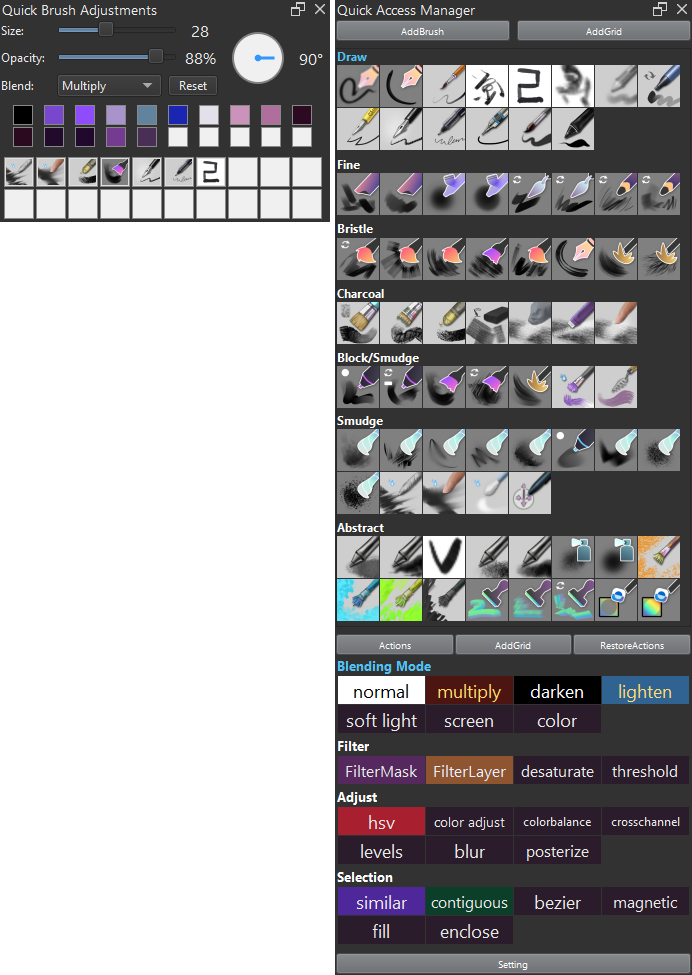
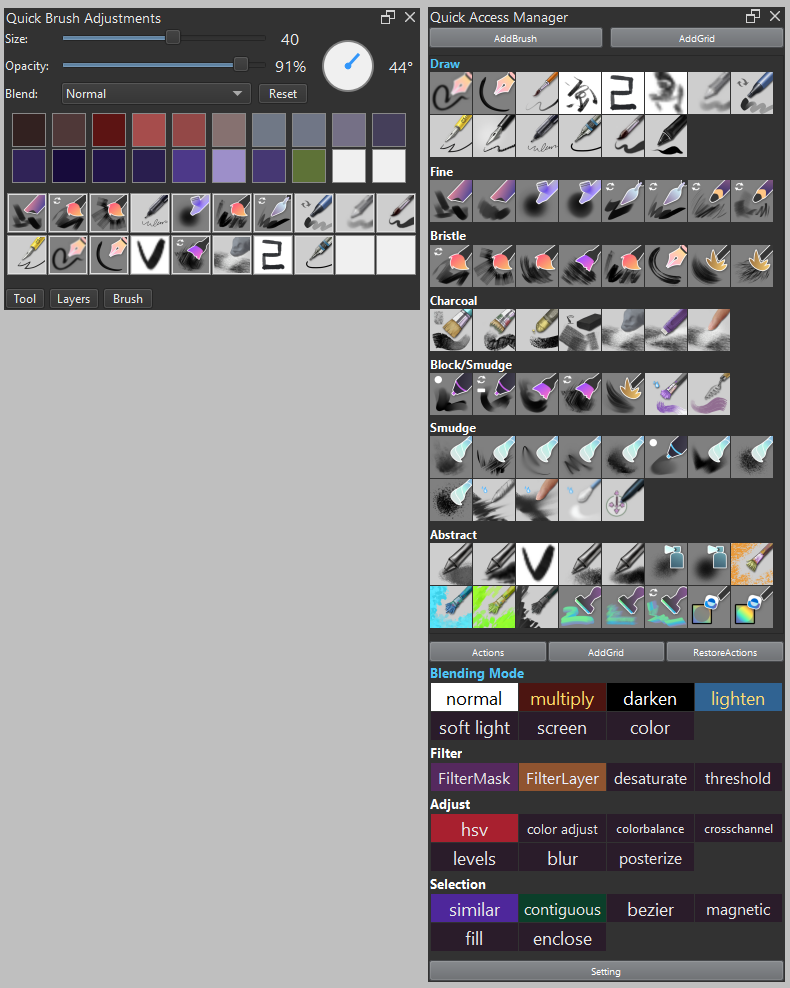
add docker toggle buttons function

diff --git a/quick_access_manager/quick_brush_adjust.py b/quick_access_manager/quick_brush_adjust.py
@@ -3,6 +3,8 @@ from PyQt5.QtCore import Qt, QTimer, pyqtSignal
 from PyQt5.QtGui import QPainter, QPen, QBrush, QColor, QPolygon
 from krita import Krita
 import math
+import json
+import os
 
 # Import widgets from the quick_brush_adjust_widgets package
 from .quick_brush_adjust_widgets import (
@@ -28,12 +30,129 @@ class BrushAdjustmentWidget(QWidget):
         self.current_brush_rotation = None
         self.current_blend_mode = None  # Add blend mode tracking
         self.updating_from_brush = False  # Flag to prevent recursive updates
+        
+        # Load docker buttons configuration
+        self.docker_buttons_config = self.load_docker_buttons_config()
+        
         self.init_ui()
         
         # Timer to periodically check for brush changes
         self.brush_check_timer = QTimer()
         self.brush_check_timer.timeout.connect(self.check_brush_change)
         self.brush_check_timer.start(200)  # Check every 200ms for more responsiveness
+        
+    def load_docker_buttons_config(self):
+        """Load docker buttons configuration from JSON file"""
+        try:
+            # Get the directory where this file is located
+            current_dir = os.path.dirname(os.path.abspath(__file__))
+            config_dir = os.path.join(current_dir, 'config')
+            config_file = os.path.join(config_dir, 'docker_buttons.json')
+            
+            if os.path.exists(config_file):
+                with open(config_file, 'r') as f:
+                    config = json.load(f)
+                    print(f"Loaded docker buttons config: {len(config.get('docker_buttons', []))} buttons")
+                    return config
+            else:
+                print(f"Docker buttons config file not found: {config_file}")
+                print("Creating default config file...")
+                
+                # Create the config directory if it doesn't exist
+                os.makedirs(config_dir, exist_ok=True)
+                
+                # Get default configuration
+                default_config = self.get_default_docker_config()
+                
+                # Write default config to file
+                with open(config_file, 'w') as f:
+                    json.dump(default_config, f, indent=4)
+                
+                print(f"Created default docker buttons config file: {config_file}")
+                return default_config
+                
+        except Exception as e:
+            print(f"Error loading docker buttons config: {e}")
+            return self.get_default_docker_config()
+
+    def get_default_docker_config(self):
+        """Return default docker configuration if JSON file is not available"""
+        return {
+            "docker_buttons": [
+                {
+                    "button_name": "Tool",
+                    "button_width": 40,
+                    "docker_keywords": ["tool", "option"],
+                    "description": "Tool Options Docker"
+                },
+                {
+                    "button_name": "Layers",
+                    "button_width": 50,
+                    "docker_keywords": ["layer"],
+                    "description": "Layers Docker"
+                },
+                {
+                    "button_name": "Brush",
+                    "button_width": 50,
+                    "docker_keywords": ["brush", "preset"],
+                    "description": "Brush Presets Docker"
+                }
+            ]
+        }
+        
+    def create_docker_buttons(self, layout):
+        """Dynamically create docker toggle buttons based on configuration"""
+        docker_buttons = self.docker_buttons_config.get("docker_buttons", [])
+        if not docker_buttons:
+            return
+            
+        print(f"Creating {len(docker_buttons)} docker buttons")
+        
+        for button_config in docker_buttons:
+            button = QPushButton(button_config["button_name"])
+            button.setStyleSheet(f"font-size: {BRUSH_ADJUSTMENT_FONT_SIZE}; padding: 2px 8px;")
+            button.setFixedWidth(button_config["button_width"])
+            button.setToolTip(button_config["description"])
+            
+            # Create a closure to capture the button configuration
+            def make_docker_toggle_handler(config):
+                def toggle_docker():
+                    self.toggle_docker_by_keywords(
+                        config["docker_keywords"],
+                        config["description"]
+                    )
+                return toggle_docker
+            
+            button.clicked.connect(make_docker_toggle_handler(button_config))
+            layout.addWidget(button)
+
+    def toggle_docker_by_keywords(self, keywords, description):
+        """Generic function to toggle any docker based on keywords"""
+        print(f"Toggling {description}")
+        
+        app = Krita.instance()
+        try:
+            window = app.activeWindow()
+            if window:
+                dockers = window.dockers()
+                for docker in dockers:
+                    docker_title = docker.windowTitle().lower()
+                    
+                    # Check if all keywords are present in the docker title
+                    if all(keyword.lower() in docker_title for keyword in keywords):
+                        if docker.isVisible():
+                            docker.hide()
+                            print(f"Hid {description}: {docker.windowTitle()}")
+                        else:
+                            docker.show()
+                            docker.raise_()
+                            print(f"Showed {description}: {docker.windowTitle()}")
+                        return
+            
+            print(f"Could not find {description}")
+            
+        except Exception as e:
+            print(f"Error toggling {description}: {e}")
         
     def init_ui(self):
         layout = QVBoxLayout()
@@ -126,16 +245,8 @@ class BrushAdjustmentWidget(QWidget):
         reset_btn.setStyleSheet(f"font-size: {BRUSH_ADJUSTMENT_FONT_SIZE}; padding: 2px 8px;")
         reset_btn.clicked.connect(self.reset_brush_settings)
         reset_btn.setFixedWidth(50)
-        
-        # Tool Options button
-        tool_options_btn = QPushButton("Tool Options")
-        tool_options_btn.setStyleSheet(f"font-size: {BRUSH_ADJUSTMENT_FONT_SIZE}; padding: 2px 8px;")
-        tool_options_btn.clicked.connect(self.open_tool_options)
-        tool_options_btn.setFixedWidth(80)
-        
+
         blend_layout.addWidget(reset_btn)
-        blend_layout.addWidget(tool_options_btn)
-        
         left_layout.addLayout(blend_layout)
         
         # Right side: Rotation widget and value
@@ -169,6 +280,14 @@ class BrushAdjustmentWidget(QWidget):
         # Add brush history widget below the color history
         self.brush_history_widget = BrushHistoryWidget(self, BRUSH_HISTORY_NUMBER, BRUSH_HISTORY_ICON_SIZE)
         layout.addWidget(self.brush_history_widget)
+        
+        # Add dynamic docker buttons below the brush history widget
+        docker_buttons_layout = QHBoxLayout()
+        docker_buttons_layout.setSpacing(4)
+        docker_buttons_layout.setContentsMargins(0, 5, 0, 0)
+        docker_buttons_layout.setAlignment(Qt.AlignLeft)  # Align buttons to the left
+        self.create_docker_buttons(docker_buttons_layout)
+        layout.addLayout(docker_buttons_layout)
         
         self.setLayout(layout)
         
@@ -415,36 +534,6 @@ class BrushAdjustmentWidget(QWidget):
             print(f"Error triggering reload_preset_action: {e}")
             # Fallback - just refresh the UI
             self.update_from_current_brush()
-    
-    def open_tool_options(self):
-        """Toggle Krita's Tool Options docker - show if hidden, hide if visible"""
-        print("Toggling Tool Options docker")
-        
-        app = Krita.instance()
-        try:
-            # Find the tool options docker
-            window = app.activeWindow()
-            if window:
-                # Get all dockers
-                dockers = window.dockers()
-                for docker in dockers:
-                    if 'tool' in docker.windowTitle().lower() and 'option' in docker.windowTitle().lower():
-                        # Check if docker is currently visible
-                        if docker.isVisible():
-                            # Docker is visible, hide it
-                            docker.hide()
-                            print(f"Hid Tool Options docker: {docker.windowTitle()}")
-                        else:
-                            # Docker is hidden, show it
-                            docker.show()
-                            docker.raise_()
-                            print(f"Showed Tool Options docker: {docker.windowTitle()}")
-                        return
-            
-            print("Could not find Tool Options docker")
-            
-        except Exception as e:
-            print(f"Error toggling tool options: {e}")
     
     def force_update(self):
         """Force update from current brush - can be called externally"""

diff --git a/README.md b/README.md
@@ -38,13 +38,6 @@ However, the shortcut settings will not be loaded automatically because it is di
 
 Therefore, you need to click the [RestoreActions] button manually to restore the shortcut settings.
 
-## Resize Docker
-<del>When resizing the docker, please do it slowly.</del>
-
-<del>If you resize too quickly, small Brush Preset popup windows may appear repeatedly, and you will need to close them manually.</del>
-
-Since the grid update process for Brush Presets has been disabled during docker resizing, this issue should no longer occur.
-
 ## Sort/Remove
 
 **Sort:**  
@@ -79,3 +72,16 @@ The configuration files for grids and shortcuts are stored in `./quick_access_ma
 **Note:**  
 There is no profile management function, but you can manually edit these files while Krita is closed.  
 If you want to reset or backup your settings, you can copy or edit these files directly.
+
+## Quick Brush Adjustments Docker
+![Setting](./quick_access_manager/image/004.png)
+A separate docker specifically for brush adjustments and settings.
+
+### Docker Toggle Buttons
+The buttons displayed at the bottom of the Docker can toggle the display On/Off for corresponding Dockers.
+Button management is handled through `quick_access_manager\config\docker_buttons.json`.
+If the configuration file does not exist, it will be created when Krita starts.
+
+### Customization
+To change the font size on the Docker or modify the selectable Blend Modes,
+edit the parameters in `quick_access_manager\quick_brush_adjust_widgets\__init__.py`.
